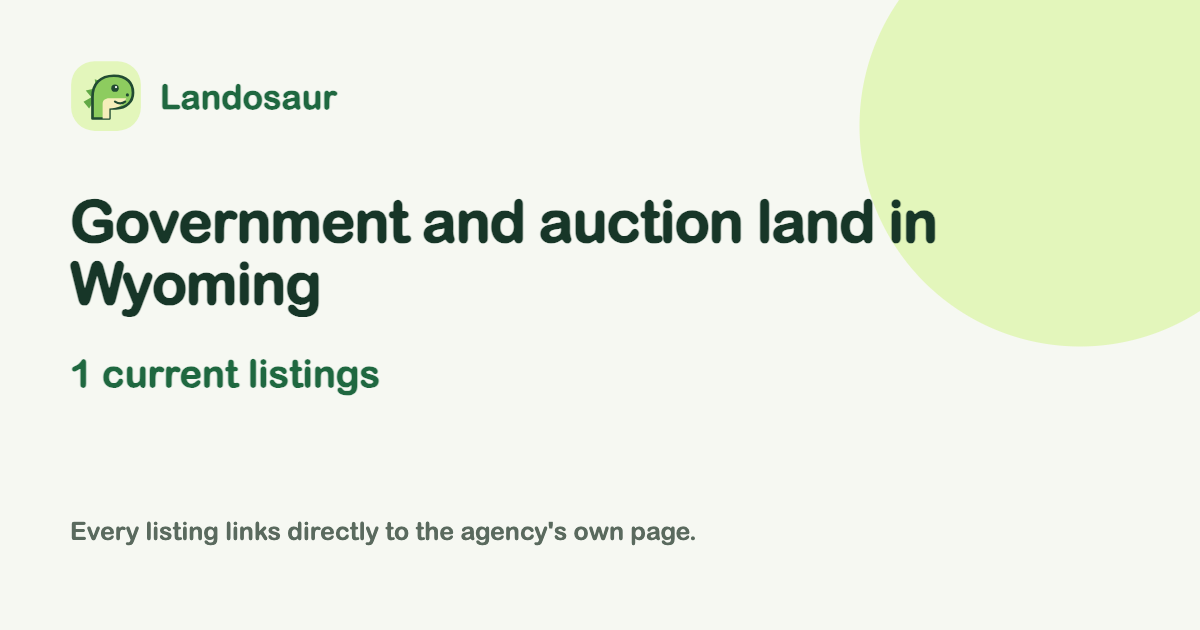
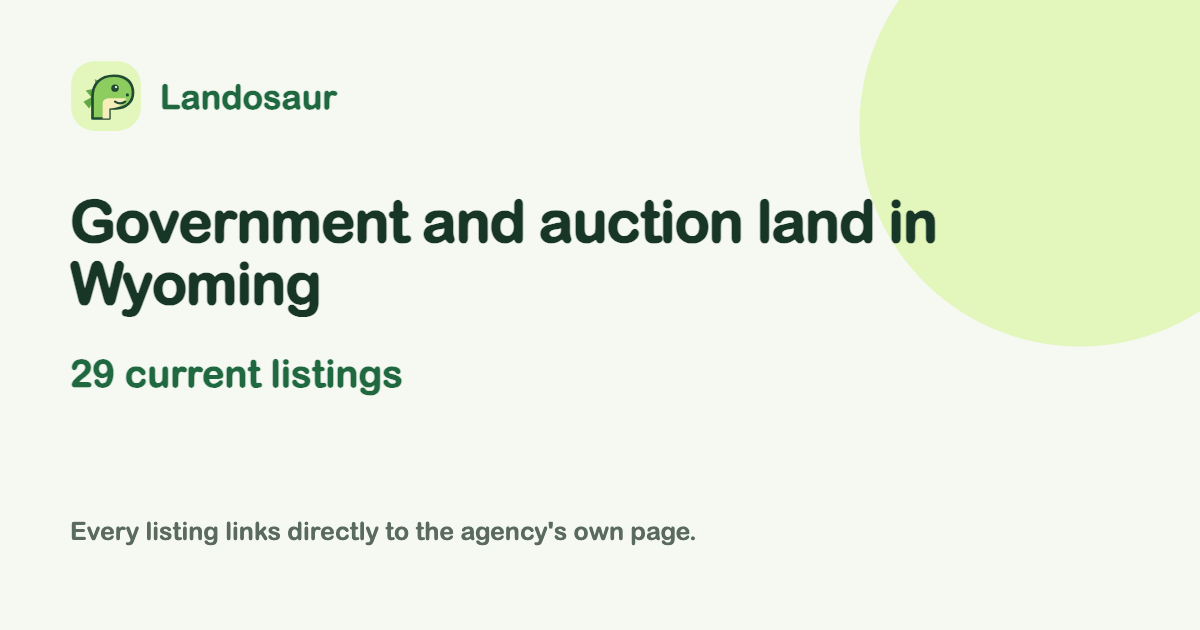
Add verified Greybull municipal lots for bid nomination

Changed region(s): [[0.0617, 0.573, 0.3392, 0.6333]]

diff --git a/lando/adapters.py b/lando/adapters.py
@@ -8672,6 +8672,101 @@ def franklin_nj_adjacent_land(fetch, now, warn):
     return rows, {"complete": True, "upstream_total": len(FRANKLIN_NJ_OFFERS)}
 
 
+GREYBULL_LAND = "https://townofgreybull.com/land-for-sale/"
+GREYBULL_DOCS = {
+    "frontier_map": ("https://townofgreybull.com/wp-content/uploads/2025/09/Frontier-Subdivision-Lots-Remaining.pdf",
[1 lines of base64/hex data omitted]
+    "frontier_terms": ("https://townofgreybull.com/wp-content/uploads/2025/01/2025-Sales-Process.pdf",
[1 lines of base64/hex data omitted]
+    "industrial_map": ("https://townofgreybull.com/wp-content/uploads/2025/03/Phase-II-map-LOTS-available-032125.pdf",
[1 lines of base64/hex data omitted]
+    "industrial_terms": ("https://townofgreybull.com/wp-content/uploads/2023/11/Industrial-Part-Purchase-Info.pdf",
[1 lines of base64/hex data omitted]
+}
+BIG_HORN_PARCELS = "https://maps.terragis.net/bighorn/mapserver/download/"
+# The town markets lots individually. The county combines them on a few assessment accounts.
+# Exclude Frontier lots with newer bid awards and industrial lots 67–68 with a separately noticed request.
+GREYBULL_INDUSTRIAL = (
+    ("R0015444", "292", "19-22", range(19, 23)),
+    ("R0015282", "292", "34-36", range(34, 37)),
+    ("R0015299", "307", "40-58 & 67-68", range(40, 59)),
+)
+
+
+def greybull_wy_land(fetch, now, warn):
+    from zipfile import ZipFile
+
+    import shapefile
+
+    page = html.unescape(fetch.text(GREYBULL_LAND))
+    if "Frontier Subdivision Map" not in page or "Industrial park lots available" not in page:
+        raise StructureError("Greybull’s sale programs changed")
+    for url, expected in GREYBULL_DOCS.values():
+        if url not in page or hashlib.sha256(fetch.bytes(url)).hexdigest() != expected:
+            raise StructureError("Greybull’s sale map or procedure needs review")
+    raw = fetch.bytes(urllib.parse.urljoin(BIG_HORN_PARCELS, "parcel_ownership.zip"))
+    with ZipFile(io.BytesIO(raw)) as archive:
+        dbf = archive.read("parcel_ownership.dbf")
+    with shapefile.Reader(dbf=io.BytesIO(dbf), encoding="latin-1") as parcels:
+        accounts = {}
+        relevant = {"R0015482", *(account for account, *_ in GREYBULL_INDUSTRIAL)}
+        for record in parcels.iterRecords(fields=["accountno", "subno", "lot", "name", "grossacres", "impsval"]):
+            row = record.as_dict()
+            account = row["accountno"]
+            if account not in relevant:
+                continue
+            if account in accounts:
+                raise StructureError(f"Big Horn County returned duplicate Greybull account {account}")
+            accounts[account] = row
+        if not accounts:
+            raise StructureError("Big Horn County no longer reports the reviewed Greybull assessments")
+
+    def town_land(account, subdivision, lots):
+        row = accounts.get(account)
+        return (row is not None and row["subno"] == subdivision and row["lot"] == lots
+                and clean(row["name"]).upper() in {"GREYBULL TOWN OF", "TOWN OF GREYBULL", "GREYBULL, TOWN OF"}
+                and row["impsval"] in (None, 0))
+
+    offers = [
+        ("industrial", lot, 1.10 if lot == 56 else .80)
+        for account, subdivision, lots, numbers in GREYBULL_INDUSTRIAL if town_land(account, subdivision, lots)
+        for lot in numbers
+    ]
+    if town_land("R0015482", "312", "") and accounts["R0015482"]["grossacres"] == 5.79:
+        # Surveyed lots 29 and 34 are still shown on the town map. The current county geometry
+        # corroborates both in this account. The council awarded lot 33 in October 2026.
+        offers += [("frontier", 29, 2.21), ("frontier", 34, 1.60)]
+    else:
+        warn("The reviewed Frontier Subdivision assessment changed; verify the remaining lot boundaries.")
+
+    rows = []
+    for program, lot, acres in offers:
+        frontier = program == "frontier"
+        name = "Frontier Subdivision" if frontier else "Greybull Industrial Park"
+        map_url = GREYBULL_DOCS[f"{program}_map"][0]
+        terms = GREYBULL_DOCS[f"{program}_terms"][0]
+        facts = [
+            fact("acreage", f"{acres:.2f} acres on the town plat" if frontier else f"Approximately {acres:.2f} acres on the town plat", map_url),
+            fact("minimum_bid_per_acre", "$18,000 per acre" if frontier else "$3,000 per acre", terms),
+            fact("sale_process", "Nominate the lot with the town. The town advertises nominated lots for three weeks before awarding a bid.", terms),
+            fact("eligibility", "The sale includes town-approved building milestones and reversion terms.", terms),
+            fact("parcel_map", f"Lot {lot} on the town plat. County assessments combine some lots.", map_url),
+        ]
+        if frontier:
+            facts.append(fact("minimum_bid", f"{acres:.2f} platted acres × the town’s $18,000 per-acre minimum. Confirm with the town before submitting a bid.", terms))
+        else:
+            facts.append(fact("eligibility", "The industrial land program is for operating businesses and prohibits speculative purchases.", terms))
+        rows.append({
+            "id": f"wy-greybull-{program}-lot-{lot}", "source": "greybull-wy-land",
+            "title": f"{name}, lot {lot} (town bid nomination)", "state": "WY", "county": "Big Horn", "locality": "Greybull",
+            "acres": acres, "price": round(acres * 18000) if frontier else None, "price_kind": "min_bid" if frontier else "none",
+            "offering": "offer", "status": "proposal_open", "deadline": None, "url": GREYBULL_LAND,
+            "lat": None, "lon": None, "geometry": None, "facts": facts,
+            "tags": ["bid nomination", "residential lot" if frontier else "industrial lot", "building milestones"],
+        })
+    return rows, {"complete": True, "upstream_total": len(rows)}
+
+
 SOURCES = [
     {"id": "st-louis-lra", "name": "City of St. Louis vacant-lot inventory", "agency": "St. Louis Development Corporation / Land Reutilization Authority",
      "url": "https://www.stlouis-mo.gov/government/departments/sldc/real-estate/lra-owned-property-search.cfm", "state": "MO", "run": st_louis,
@@ -9154,8 +9249,14 @@ SOURCES = [
      "agency": "Township of Franklin, Gloucester County, New Jersey", "url": FRANKLIN_NJ_NOTICE, "state": "NJ",
      "run": franklin_nj_adjacent_land, "requires_sale_match": True,
      "about": "Sealed-bid municipal land sale with parcel-level starting bids. Eligibility is limited to buyers who own adjacent property."},
+    {"id": "greybull-wy-land", "name": "Town of Greybull platted lots available for bid nomination",
+     "agency": "Town of Greybull, Wyoming", "url": GREYBULL_LAND, "state": "WY",
+     "run": greybull_wy_land, "requires_sale_match": True,
+     "about": "Municipal residential and industrial lots matched to county assessments and reviewed against council decisions. The town publishes per-acre starting bids and development terms."},
 ]
 NOT_CARRIED = [
+    ("Go Goshen embedded industrial lot maps", "https://gogoshen.com/do-business/economic-development/industrial-real-estate/",
+     "The third-party map host disallows crawling the published style paths. Lot-level availability needs a separate official source."),
     ("Snohomish County current foreclosure auction", "https://snohomishcountywa.gov/220/Tax-Foreclosures",
      "The current sale vendor returned HTTP 403 for robots.txt, and the county payment portal’s search script is disallowed."),
     ("Pierce County tax-title sale roster", "https://www.piercecountywa.gov/1005/Tax-Title-Properties",

diff --git a/tests/test_adapters.py b/tests/test_adapters.py
@@ -1069,6 +1069,42 @@ Zoning R-1 Single Family Residential
 
 
 class OfficialInventoryExtensionTest(unittest.TestCase):
+    def test_greybull_requires_current_town_assessment_and_keeps_industrial_price_per_acre(self):
+        import hashlib
+        import io
+        import zipfile
+
+        archive = io.BytesIO()
+        with zipfile.ZipFile(archive, "w") as zipped:
+            zipped.writestr("parcel_ownership.dbf", b"assessment fixture")
+        document = b"verified document"
+        digest = hashlib.sha256(document).hexdigest()
+        documents = {key: (url, digest) for key, (url, _) in adapters.GREYBULL_DOCS.items()}
+        fetch = unittest.mock.Mock()
+        fetch.text.return_value = "Frontier Subdivision Map Industrial park lots available " + " ".join(
+            url for url, _ in documents.values())
+        fetch.bytes.side_effect = lambda url: archive.getvalue() if url.endswith(".zip") else document
+        holder = "TOWN OF GREYBULL"
+        assessments = [
+            ("R0015482", "312", "", holder, 5.79, None),
+            ("R0015444", "292", "19-22", "PRIVATE PARTY", 3.20, None),
+            ("R0015282", "292", "34-36", holder, 2.41, 500),
+            ("R0015299", "307", "40-58 & 67-68", holder, 17.19, None),
+        ]
+        keys = ("accountno", "subno", "lot", "name", "grossacres", "impsval")
+        shapefile = unittest.mock.MagicMock()
+        reader = shapefile.Reader.return_value.__enter__.return_value
+        reader.iterRecords.return_value = [unittest.mock.Mock(**{"as_dict.return_value": dict(zip(keys, row))})
+                                          for row in assessments]
+        with patch.dict("sys.modules", {"shapefile": shapefile}), patch.object(adapters, "GREYBULL_DOCS", documents):
+            rows, info = adapters.greybull_wy_land(fetch, NOW, self.fail)
+        by_id = {row["id"]: row for row in rows}
+        self.assertEqual(info["upstream_total"], 21)
+        self.assertEqual(by_id["wy-greybull-frontier-lot-29"]["price"], 39780)
+        self.assertIsNone(by_id["wy-greybull-industrial-lot-56"]["price"])
+        self.assertNotIn("wy-greybull-industrial-lot-67", by_id)
+        self.assertNotIn("PRIVATE PARTY", repr(rows))
+
     def test_franklin_adjacent_sale_requires_adopted_schedule_and_keeps_combined_bid(self):
         import hashlib
 

diff --git a/scripts/check_dist.py b/scripts/check_dist.py
@@ -26,7 +26,7 @@ from lando.pages import listing_is_indexable  # noqa: E402
 
 HREF = re.compile(r'(?:href|src)="([^"]+)"')
 OFFICIAL = {
-    "douglascountywa.gov", "co.chelan.wa.us", "franklintownshipnj.org",
+    "douglascountywa.gov", "co.chelan.wa.us", "franklintownshipnj.org", "townofgreybull.com",
     "stlouis-mo.gov", "cosl.org", "wisconsin.gov", "alaskamentalhealthtrust.org",
     "alaska.gov", "buildingdetroit.org", "kclandbank.org", "dgs.ca.gov",
     "chicago.gov", "pghlandbank.org", "louisvilleky.gov", "lucascountylandbank.org",
